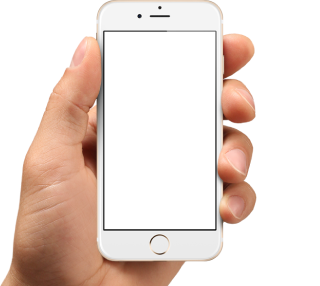
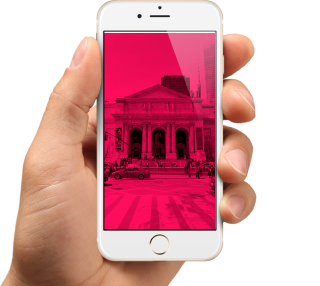
меню, шрифты, прайс

Changed region(s): [[0.3125, 0.1119, 0.6875, 0.8112]]

diff --git a/source/index.html b/source/index.html
@@ -147,58 +147,60 @@
     </section>
     <section class="price">
       <div class="price__wrapper wrapper">
-        <table class="price__table">
-          <tbody>
-            <tr>
-              <th class="price__table-cell-hidden"></th>
-              <th class="price__table-header price__table-header-wrapper">База<br>
-                <span class="price__table-cost ">1,99 USD</span>
-              </th>
-              <th class="price__table-header price__table-header-wrapper price__table-header--hit">Стандарт<br>
-                <span class="price__table-cost">3,99 USD</span>
-              </th>
-              <th class="price__table-header price__table-header-wrapper">Анлим<br>
-                <span class="price__table-cost">9,99 USD</span>
-              </th>
-            </tr>
-            <tr>
-              <td class="price__table-name price__table-name-hidden--mobile">Розовый фильтр</td>
-              <td><span class="price__table-name price__table-name-hidden">Розовый фильтр</span>
-                <img src="img/price-yes.png" alt="yes" width="27" height="27">
-              </td>
-              <td><span class="price__table-name price__table-name-hidden">Розовый фильтр</span>
-                <img src="img/price-yes.png" alt="yes" width="27" height="27">
-              </td>
-              <td><span class="price__table-name price__table-name-hidden">Розовый фильтр</span>
-                <img src="img/price-yes.png" alt="yes" width="27" height="27">
-              </td>
-            </tr>
-            <tr>
-              <td class="price__table-name price__table-name-hidden--mobile">Смайлики</td>
-              <td><span class="price__table-name price__table-name-hidden">Смайлики</span>
-                <img src="img/price-no.png" alt="no" width="27" height="27">
-              </td>
-              <td><span class="price__table-name price__table-name-hidden">Смайлики</span>
-                <img src="img/price-yes.png" alt="yes" width="27" height="27">
-              </td>
-              <td><span class="price__table-name price__table-name-hidden">Смайлики</span>
-                <img src="img/price-yes.png" alt="yes" width="27" height="27">
-              </td>
-            </tr>
-            <tr>
-              <td class="price__table-name price__table-name-hidden--mobile">Комментарии</td>
-              <td><span class="price__table-name price__table-name-hidden">Комментарии</span>
-                <img src="img/price-no.png" alt="no" width="27" height="27">
-              </td>
-              <td><span class="price__table-name price__table-name-hidden">Комментарии</span>
-                <img src="img/price-no.png" alt="no" width="27" height="27">
-              </td>
-              <td><span class="price__table-name price__table-name-hidden">Комментарии</span>
-                <img src="img/price-yes.png" alt="yes" width="27" height="27">
-              </td>
-            </tr>
-          </tbody>
-        </table>
+        <div class="price__table-wrapper">
+          <table class="price__table">
+            <tbody>
+              <tr>
+                <th class="price__table-cell-hidden"></th>
+                <th class="price__table-header price__table-header-wrapper">База<br>
+                  <span class="price__table-cost ">1,99 USD</span>
+                </th>
+                <th class="price__table-header price__table-header-wrapper price__table-header--hit">Стандарт<br>
+                  <span class="price__table-cost">3,99 USD</span>
+                </th>
+                <th class="price__table-header price__table-header-wrapper">Анлим<br>
+                  <span class="price__table-cost">9,99 USD</span>
+                </th>
+              </tr>
+              <tr>
+                <td class="price__table-name price__table-name-hidden--mobile">Розовый фильтр</td>
+                <td><span class="price__table-name price__table-name-hidden">Розовый фильтр</span>
+                  <img src="img/price-yes.png" alt="yes" width="27" height="27">
+                </td>
+                <td><span class="price__table-name price__table-name-hidden">Розовый фильтр</span>
+                  <img src="img/price-yes.png" alt="yes" width="27" height="27">
+                </td>
+                <td><span class="price__table-name price__table-name-hidden">Розовый фильтр</span>
+                  <img src="img/price-yes.png" alt="yes" width="27" height="27">
+                </td>
+              </tr>
+              <tr>
+                <td class="price__table-name price__table-name-hidden--mobile">Смайлики</td>
+                <td><span class="price__table-name price__table-name-hidden">Смайлики</span>
+                  <img src="img/price-no.png" alt="no" width="27" height="27">
+                </td>
+                <td><span class="price__table-name price__table-name-hidden">Смайлики</span>
+                  <img src="img/price-yes.png" alt="yes" width="27" height="27">
+                </td>
+                <td><span class="price__table-name price__table-name-hidden">Смайлики</span>
+                  <img src="img/price-yes.png" alt="yes" width="27" height="27">
+                </td>
+              </tr>
+              <tr>
+                <td class="price__table-name price__table-name-hidden--mobile">Комментарии</td>
+                <td><span class="price__table-name price__table-name-hidden">Комментарии</span>
+                  <img src="img/price-no.png" alt="no" width="27" height="27">
+                </td>
+                <td><span class="price__table-name price__table-name-hidden">Комментарии</span>
+                  <img src="img/price-no.png" alt="no" width="27" height="27">
+                </td>
+                <td><span class="price__table-name price__table-name-hidden">Комментарии</span>
+                  <img src="img/price-yes.png" alt="yes" width="27" height="27">
+                </td>
+              </tr>
+            </tbody>
+          </table>
+        </div>
       </div>
     </section>
     <section class="contacts">
@@ -224,8 +226,7 @@
     </section>
     <section class="contacts__map">
       <div class="contacts__map-marker">
-        <img class="contacts__map-marker-marker" src="img/index-map-marker.png" alt="map-marker" width="36"
-          height="36">
+        <img class="contacts__map-marker-marker" src="img/index-map-marker.png" alt="map-marker" width="36" height="36">
       </div>
     </section>
   </main>

diff --git a/source/sass/blocks/main-nav.scss b/source/sass/blocks/main-nav.scss
@@ -8,7 +8,7 @@
 
 .main-nav__menu-button {
   position: absolute;
-  top: -32px;
+  top: -48px;
   right: 15px;
   z-index: 2;
   display: block;
@@ -20,7 +20,7 @@
   outline: none;
 
   @media (min-width: $tablet-width) {
-    top: -28px;
+    top: -67px;
   }
 
   @media (min-width: $desktop-width) {
@@ -54,8 +54,8 @@
 }
 
 .main-nav--open .main-nav__menu-button {
-  top: -8px;
-  left: auto;
+  top: -42px;
+  right: -9px;
 
   &::before,
   &::after {
@@ -63,7 +63,7 @@
     position: absolute;
     top: 11px;
     left: 13px;
-    width: 23px;
+    width: 27px;
     height: 3px;
     background-color: #ffffff;
   }
@@ -83,7 +83,7 @@
   }
 
   @media (min-width: $tablet-width) {
-    top: -22px;
+    top: -54px;
   }
 }
 
@@ -129,8 +129,8 @@
   line-height: 32px;
   text-transform: uppercase;
   color: $light-on-dark-color;
-  padding-top: 20px;
-  padding-bottom: 20px;
+  padding-top: 18px;
+  padding-bottom: 13px;
   background: #283645;
   box-shadow: 0 1px 0 #000000, inset 0 1px 0 rgba(255, 255, 255, 0.15);
   border-top: 1px solid #485461;

diff --git a/source/sass/fonts.scss b/source/sass/fonts.scss
@@ -1,4 +1,20 @@
 @font-face {
   font-family: "Open Sans";
-  src: url("../fonts/opensans.woff2") format("woff2"), url("../fonts/opensans.woff") format("woff"), url("../fonts/opensansbold.woff2") format("woff2"), url("../fonts/opensansbold.woff") format("woff"), url("../fonts/opensanslight.woff2") format("woff2"), url("../fonts/opensanslight.woff") format("woff2");
+  font-weight: 300;
+  font-style: normal;
+  src: url("../fonts/opensanslight.woff2") format("woff2"), url("../fonts/opensanslight.woff") format("woff2");
+}
+
+@font-face {
+  font-family: "Open Sans";
+  font-weight: 400;
+  font-style: normal;
+  src: url("../fonts/opensans.woff2") format("woff2"), url("../fonts/opensans.woff") format("woff");
+}
+
+@font-face {
+  font-weight: 700;
+  font-family: "Open Sans";
+  font-style: normal;
+  src: url("../fonts/opensansbold.woff2") format("woff2"), url("../fonts/opensansbold.woff") format("woff");
 }

diff --git a/source/sass/blocks/page-header.scss b/source/sass/blocks/page-header.scss
@@ -3,10 +3,10 @@
   flex-direction: column;
   background: #283645;
   color: $light-on-dark-color;
-  height: 60px;
+  min-height: 66px;
 
   @media (min-width: $tablet-width) {
-    height: 80px;
+    min-height: 80px;
   }
 
   @media (min-width: $desktop-width) {
@@ -26,6 +26,7 @@
   width: 74px;
   margin-left: 20px;
   margin-top: 24px;
+  margin-bottom: 15px;
 
   @media (min-width: $tablet-width) {
     img {
@@ -36,6 +37,7 @@
     background-image: url("../img/logo-tablet.svg");
     background-repeat: no-repeat;
     background-position: 50% 50%;
+    margin-bottom: 46px;
   }
 
   @media (min-width: $desktop-width) {

diff --git a/source/sass/blocks/promo.scss b/source/sass/blocks/promo.scss
@@ -17,9 +17,9 @@
 }
 
 .promo__bg-img {
-  background-image: url("../img/index-phone.png"), url("../img/index-screen.png");
+  background-image: url("../img/index-phone.png");
   background-repeat: no-repeat;
-  background-position: 0% 32%, 55% 33%;
+  background-position: 50% 31%;
 
   @media (min-width: $tablet-width) {
     height: 645px;
@@ -79,7 +79,8 @@
   line-height: 120%;
   text-align: center;
   margin: 0;
-  padding-top: 33px;
+  padding-top: 24px;
+  padding-left: 18px;
 
   br {
     display: none;

diff --git a/source/sass/blocks/price.scss b/source/sass/blocks/price.scss
@@ -3,6 +3,10 @@
   margin-bottom: 54px;
 }
 
+.price__wrapper {
+  overflow: hidden;
+}
+
 .price__table {
   width: 100%;
   padding-top: 31px;
